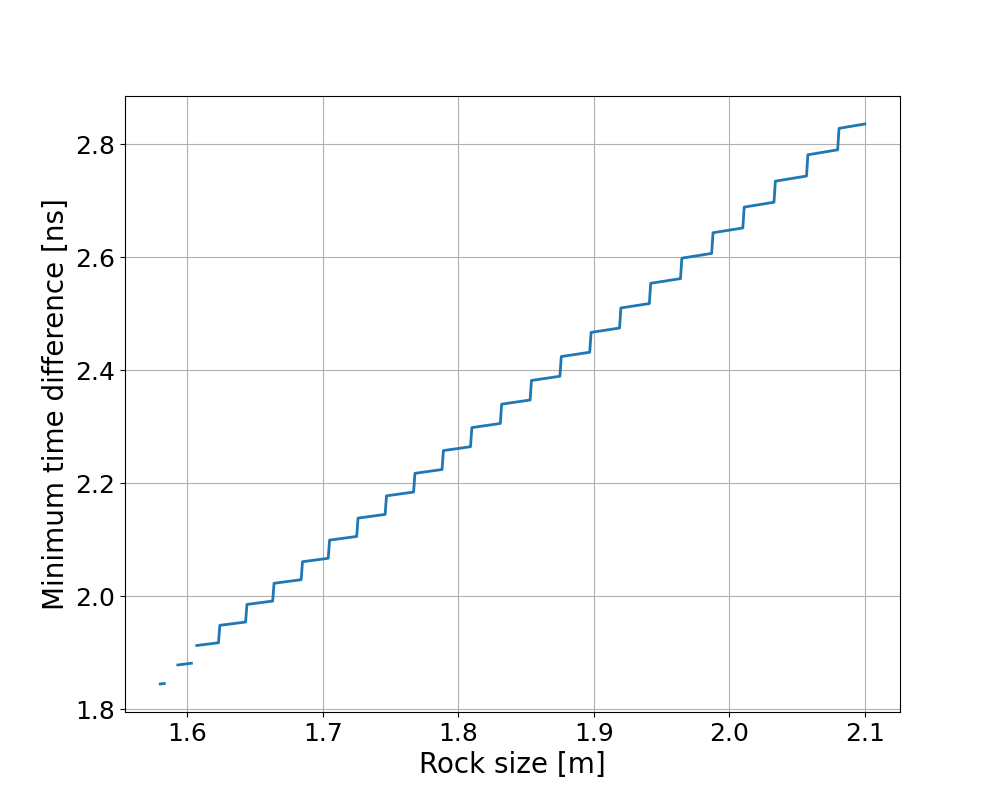
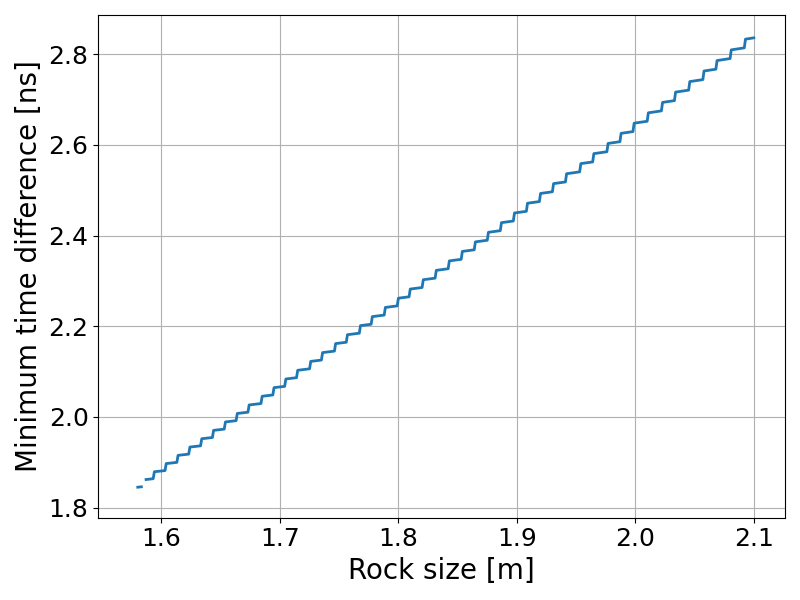
分解能を変更

diff --git a/kanda_test_programs/propagation_model_square/calc_propagation_time.py b/kanda_test_programs/propagation_model_square/calc_propagation_time.py
@@ -21,7 +21,8 @@ h_dash = antenna_height
 
 #* Parameters
 rock_size_array = np.arange(0, 2.101, 0.001)  # [m]
-theta_array = np.arange(0, np.pi * 1/2, np.pi / 720)  # [rad], 0 ~ pi/2
+theta_array = np.arange(0, np.pi * 1/2, np.pi / 1440
+)  # [rad], 0 ~ pi/2
 print('theta:', len(theta_array))
 
 
@@ -136,7 +137,7 @@ plt.show()
 
 
 #* Plot the minimum time difference
-plt.figure(figsize=(10, 8))
+plt.figure(figsize=(8, 6), tight_layout=True)
 plt.plot(rock_size_array, min_delta_T / 1e-9, linewidth=2)
 
 plt.xlabel('Rock size [m]', fontsize=20)
